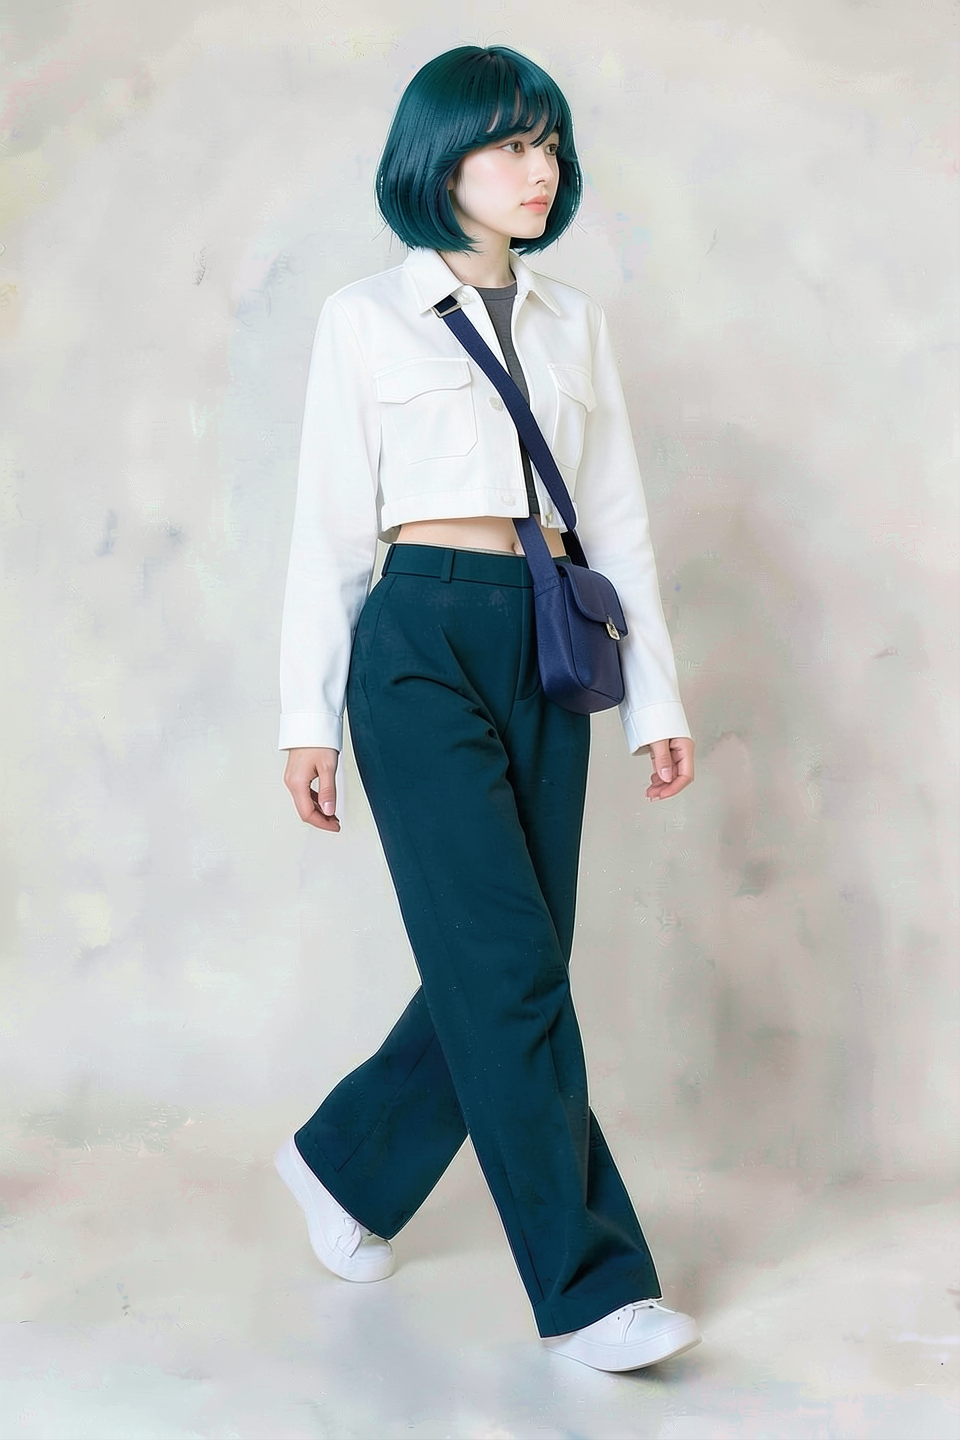
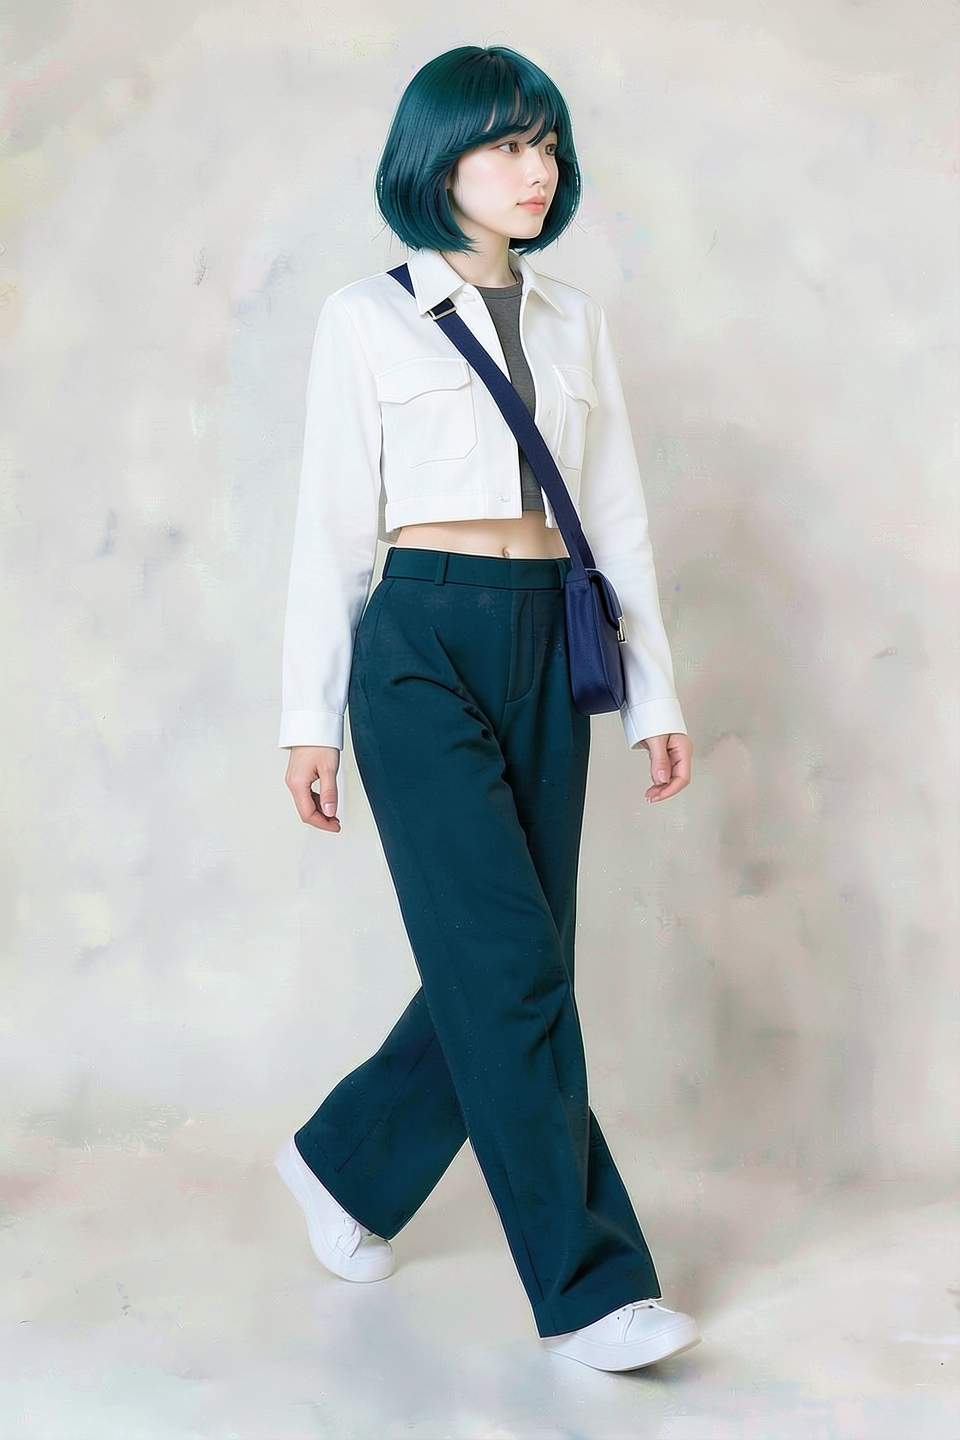
docs(p7-5.2): approve occluded bag quarter view

diff --git a/docs/assets/part-07/chapter-05/p7_5_2_refine_fullbody_face_props.py b/docs/assets/part-07/chapter-05/p7_5_2_refine_fullbody_face_props.py
@@ -110,7 +110,7 @@ LAYERED_OUTFIT_VIEW_RULES = {
 BAG_VIEW_RULES = {
     "front": "Front: hang the bag side-on beside the wearer's outer-left trouser seam, its top at the waistband; show one continuous taut strap from the outer wearer's-right shoulder diagonally across the chest into the bag's upper inner attachment.",
     "front_quarter_left": "Left front three-quarter: place the bag at the outer wearer's-left hip, its top at the waistband, below the ribs and clear of the front thigh. Show exactly one continuous taut deep-navy strap, fully visible on the exterior of the near-facing white jacket: start at the outer wearer's-right shoulder, cross the chest diagonally without a break or a second segment, and end at the bag's upper inner attachment. Keep the strap outside the jacket, never behind, inside, or detached from the bag.",
-    "front_quarter_right": "Front three-quarter: place the bag at the outer wearer's-left hip, its top at the waistband, below the ribs and clear of the front thigh. Show one continuous taut deep-navy strap from the outer wearer's-right shoulder diagonally across the exterior of the white jacket into the bag's upper inner attachment; do not hide it behind or inside the jacket.",
+    "front_quarter_right": "Right front three-quarter: show one deep-navy strap diagonally across the chest from the image-left shoulder. The bag rests behind the far hip; only a small outer edge extends beyond the torso.",
     "profile_left": "Profile: keep the bag at the outer wearer's-left hip with its top at the waistband, below the ribs, and keep its strap behind the jacket.",
     "profile_right": "Profile: keep the bag at the outer wearer's-left hip with its top at the waistband, below the ribs, and keep its strap behind the jacket.",
     "rear": "Rear: retain long cuffed sleeves reaching the wrists. Show one continuous taut deep-navy canvas strap from the outer wearer's-right shoulder diagonally across the jacket back, exiting beyond the left waistband. At the outer left hip, show only a small deep-navy woven-fabric bag corner, mostly hidden behind the torso.",
@@ -118,7 +118,7 @@ BAG_VIEW_RULES = {
 COMPLETE_OUTFIT_VIEW_RULES = {
     "front": "Front: replace the visible charcoal top with the supplied very short white cropped utility jacket as the closed outer layer. Its white front panels cover the chest, with long cuffed sleeves reaching the wrists; the charcoal-gray crop top may appear only as a narrow band below the cropped hem. Retain the bag side-on beside the wearer's outer-left trouser seam, its top aligned to the waistband, and one continuous taut deep-navy strap from the outer wearer's-right shoulder diagonally across the white jacket into the bag's upper inner attachment.",
     "front_quarter_left": "Left front three-quarter: retain the bag at the outer wearer's-left hip, its top aligned to the waistband, below the ribs and clear of the front thigh. Show exactly one continuous taut deep-navy strap, fully visible on the exterior of the near-facing white jacket: start at the outer wearer's-right shoulder, cross the chest diagonally without a break or a second segment, and end at the bag's upper inner attachment. Keep the strap outside the jacket, never behind, inside, or detached from the bag.",
-    "front_quarter_right": "Front three-quarter: retain the bag at the outer wearer's-left hip, its top aligned to the waistband, below the ribs and clear of the front thigh. Show one continuous taut deep-navy strap from the outer wearer's-right shoulder diagonally across the exterior of the white jacket into the bag's upper inner attachment; do not hide it behind or inside the jacket.",
+    "front_quarter_right": "Right front three-quarter: show one deep-navy strap diagonally across the chest from the image-left shoulder. The bag rests behind the far hip; only a small outer edge extends beyond the torso.",
     "profile_left": "Profile: render a visibly dominant white cropped utility-jacket body from collar to hem, including the side-back panel and one long cuffed sleeve. Show the charcoal-gray crop top only as a narrow inner layer at the open front. Keep the bag at the outer wearer's-left rearward hip, its top aligned to the waistband, with the strap behind the jacket.",
     "profile_right": "Profile: render a visibly dominant white cropped utility-jacket body from collar to hem, including the side-back panel and one long cuffed sleeve. Show the charcoal-gray crop top only as a narrow inner layer at the open front. Keep the bag at the outer wearer's-left rearward hip, its top aligned to the waistband, with the strap behind the jacket.",
     "rear": "Rear: replace the upper garment with the supplied white cropped utility jacket: plain white back panel, long cuffed sleeves to the wrists, and bare-skin midriff below its hem; no gray inner top is visible. Show one continuous taut deep-navy canvas strap from the outer wearer's-right shoulder diagonally across the jacket back, exiting beyond the left waistband. At the outer left hip, show only a small deep-navy woven-fabric bag corner, mostly hidden behind the torso.",

diff --git a/docs/assets/part-07/chapter-05/p7_5_2_generate_face_turnaround_sheet.py b/docs/assets/part-07/chapter-05/p7_5_2_generate_face_turnaround_sheet.py
@@ -4,7 +4,6 @@
 from __future__ import annotations
 
 import argparse
-from hashlib import sha256
 import json
 from math import isqrt
 from pathlib import Path
@@ -13,6 +12,7 @@ import time
 import torch
 from diffusers import Flux2KleinPipeline
 from PIL import Image
+from p7_5_image_output_naming import candidate_stem, experiment_code
 
 
 ROOT = Path(__file__).resolve().parent
@@ -53,25 +53,6 @@ TURNAROUND_FIDELITY_RULE = (
 
 def prompt_word_count(text: str) -> int:
     return len(text.split())
-
-
-def output_contract_hash(prompt: str, view: str, seed: int, steps: int) -> str:
-    """Return a stable short hash for the unified generation contract."""
-    contract = json.dumps(
-        {
-            "model": MODEL_ID,
-            "view": view,
-            "seed": seed,
-            "prompt": prompt,
-            "image_size": [IMAGE_SIZE, IMAGE_SIZE],
-            "steps": steps,
-            "guidance_scale": 1.0,
-            "identity_contract": FACE_IDENTITY_CONTRACT_PATH.name,
-        },
-        sort_keys=True,
-        separators=(",", ":"),
-    )
-    return sha256(contract.encode("utf-8")).hexdigest()[:10]
 
 
 def build_turnaround_prompt(view: str) -> str:
@@ -153,7 +134,7 @@ def parse_args() -> argparse.Namespace:
     parser.add_argument(
         "--output-prefix",
         default="p7-5-2-face-direction",
-        help="Prefix placed before view, contract hash, seed, and step suffixes.",
+        help="Prefix placed before view, experiment code, seed, and step suffixes.",
     )
     return parser.parse_args()
 
@@ -188,8 +169,21 @@ def main() -> None:
         seed = first_seed + batch_index * args.seed_step
         for view in args.views:
             prompt = build_turnaround_prompt(view)
-            contract_hash = output_contract_hash(prompt, view, seed, args.steps)
-            stem = f"{args.output_prefix}-{view}-hash-{contract_hash}-seed-{seed}-steps-{args.steps}"
+            stem = candidate_stem(
+                f"{args.output_prefix}-{view}",
+                seed=seed,
+                steps=args.steps,
+                contract={
+                    "model": MODEL_ID,
+                    "view": view,
+                    "seed": seed,
+                    "prompt": prompt,
+                    "image_size": [IMAGE_SIZE, IMAGE_SIZE],
+                    "steps": args.steps,
+                    "guidance_scale": 1.0,
+                    "identity_contract": FACE_IDENTITY_CONTRACT_PATH.name,
+                },
+            )
             candidate = ROOT / f"{stem}-candidate.png"
             report = ROOT / f"{stem}-review.json"
             started = time.monotonic()
@@ -221,7 +215,7 @@ def main() -> None:
                         "output": candidate.name,
                         "view": view,
                         "seed": seed,
-                        "contract_hash": contract_hash,
+                        "experiment_code": experiment_code(),
                         "steps": args.steps,
                         "preview_interval": args.preview_interval,
                         "seed_offset": args.seed_offset,

diff --git a/docs/assets/part-07/chapter-05/p7_5_image_output_naming.py b/docs/assets/part-07/chapter-05/p7_5_image_output_naming.py
@@ -1,19 +1,29 @@
-"""Stable output names for Part 7 Chapter 5 image-generation candidates."""
+"""Experiment-scoped output names for Part 7 Chapter 5 image candidates."""
 
 from __future__ import annotations
 
-from hashlib import sha256
-import json
 from pathlib import Path
+from secrets import token_hex
 
 import torch
 
 
+_EXPERIMENT_CODE = token_hex(3)
+
+
+def experiment_code() -> str:
+    """Return the six-character random code shared by this process."""
+    return _EXPERIMENT_CODE
+
+
 def candidate_stem(prefix: str, *, seed: int, steps: int, contract: object) -> str:
-    """Return a deterministic candidate stem with contract hash, seed, and diffusion steps."""
-    encoded = json.dumps(contract, ensure_ascii=False, sort_keys=True, separators=(",", ":"), default=str)
-    digest = sha256(encoded.encode("utf-8")).hexdigest()[:10]
-    return f"{prefix}-hash-{digest}-seed-{seed}-steps-{steps}"
+    """Return a stem with the run code, seed, and diffusion steps.
+
+    ``contract`` stays required so call sites keep their generation inputs
+    explicit even though filenames no longer encode a contract digest.
+    """
+    _ = contract
+    return f"{prefix}-code-{experiment_code()}-seed-{seed}-steps-{steps}"
 
 
 def preview_callback(pipe, *, height: int, width: int, every: int, directory: Path, prefix: str):
@@ -29,8 +39,12 @@ def preview_callback(pipe, *, height: int, width: int, every: int, directory: Pa
             return callback_kwargs
         latents = callback_kwargs["latents"]
         if latent_ids is None:
-            latent_height = 2 * (height // (pipe.vae_scale_factor * 2))
-            latent_width = 2 * (width // (pipe.vae_scale_factor * 2))
+            # Flux2KleinPipeline.prepare_latents() patchifies the VAE grid once
+            # before packing it. The callback receives that packed grid, so its
+            # position IDs must use the post-patch dimensions rather than the
+            # intermediate pre-patch dimensions.
+            latent_height = height // (pipe.vae_scale_factor * 2)
+            latent_width = width // (pipe.vae_scale_factor * 2)
             template = torch.empty((latents.shape[0], 1, latent_height, latent_width), device=latents.device)
             latent_ids = pipe._prepare_latent_ids(template).to(latents.device)
         with torch.no_grad():

diff --git a/management/release-notes/sections/part-07/P7-5.2.md b/management/release-notes/sections/part-07/P7-5.2.md
@@ -5,6 +5,8 @@
 
 ### v2026.08.09
 
+- 우측 전면 쿼터 리파인 교체 승인: 가방을 먼쪽 골반 뒤에 배치해 몸통 외곽에 일부만 보이게 하고 앞가슴에는 단일 스트랩만 남긴 `seed=62294`·`3 step` 후보를 사람 승인했다. 안정 PNG와 검수 JSON을 교체하고 원고에 해당 가림 관계의 승인 범위를 명시했다.
+- 챕터 5 후보 파일명 실험 코드화: 공용 출력 이름에서 계약 해시를 제거하고, Python 프로세스마다 한 번 생성하는 6자리 랜덤 코드를 넣도록 변경했다. 같은 실행의 방향·단계·검수 JSON은 같은 코드를 공유하며 seed·step은 계속 파일명에 남긴다. 전체 prompt와 입력 계약은 실행 JSON에 보존한다. 얼굴 턴어라운드의 독립 해시 구현도 공용 이름 생성기로 통합했다.
 - 다중 얼굴 참조 리파인 6방향 승인: 승인 전신 composition에 방향별 얼굴 PNG 여러 장과 통합 착장을 개별 입력으로 넣어 `seed=62294`, 단일 `3 step`으로 생성한 정면·좌우 전면 쿼터·좌우 측면·후면을 사람 승인했다. 여섯 PNG를 안정 이름으로 교체하고, 각 검수 JSON도 `approved`·`human_approved` 상태의 안정 관리 자산으로 등록했다.
 - 방향 얼굴 5방향 재승인: 새 정면 얼굴 기준을 입력으로 `seed=62294`·`3 step`으로 생성한 좌·우 전면 쿼터·좌·우 측면·후면 후보를 사람 승인해 안정 PNG로 교체했다. 각 `review.json`도 승인 상태의 관리 자산으로 등록하고 원고에 2열 6행 검수 기록을 추가했다.
 - 코드 읽기 순서 정리: 방향 얼굴·소품의 입력 계약 설명 뒤에 각 코드 패널을 배치하고, 전신 생성 코드는 정면 생성기 다음에 방향 생성기가 오도록 재배치했다. 중복된 생성기 요약 표도 하나로 통합했다.
